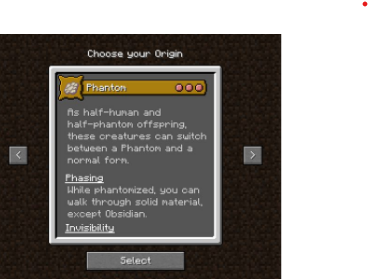
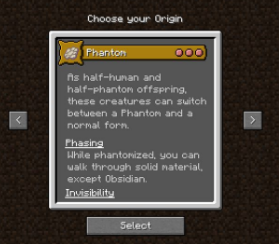
added child page, and changed background design

diff --git a/Fantasy_Web/portfolio.html b/Fantasy_Web/portfolio.html
@@ -4,22 +4,24 @@
     <meta charset="UTF-8">
     <meta http-equiv="X-UA-Compatible" content="IE=edge">
     <meta name="viewport" content="width=device-width, initial-scale=1.0">
+    <link type="text/css" rel="stylesheet" href="styles/style.css">
     <title>My Portfolio</title>
 </head>
 <body>
 
     <header>
-        <nav>
-            <img src="./assets/server-icon.png" id="nav-logo" alt="Fantasy web logo">
-
-            <a href="index.html"> Home </a>
-            <a href="portfolio.html"> Portfolio </a>
-            <a href="https://github.com/Thrasherop"> Github </a>
+        <nav class="header">
+            <img src="./assets/server-iconv3.png" id="nav-logo" alt="Fantasy web logo">
+            
+            <br>
+            <a href="index.html" class="nav-link"> Home </a>
+            <a href="downloads.html" class="nav-link"> Downloads </a>
+            <a href="https://github.com/Thrasherop" class="nav-link"> Github </a>
         </nav>
     </header>
 
     <main>
-        <section id="welcome-section">
+        <section id="welcome-section" class="text-bubble">
             <h1 id="portfolio-welcome-title"> Welcome! </h1>
             <p id="portfolio-welcome-text"> 
                 Thanks for visiting my portfolio! This is where I have chosen
@@ -32,34 +34,35 @@
             </p>
         </section>
 
-        <section id="portfolio-section">
+        <section class="portfolio-section">
 
             <article class="portfolio-item" id="PeaPass-article">
-                <a href="https://github.com/Thrasherop/PeaPass">
-                    <img class="portfolio-thumbnail" src="assets/PeaPass Screenshot.png">
-                    <p> 
-                        This is my fully open source password manager. Although it is far from perfect, 
-                        I am still proud of it. I had to do a lot of research on cyber security and best
-                        practices. Ultimately I ended up with a Python script that uses Argon2-id as well 
-                        as PBKDF2 to keep passwords confidential!
-                        <br>
-                        Repo: Github.com/Thrasherop/PeaPass <br>
-                        Language: Python3<br>
-                        Specific skills: Python3, Cybersecurity
-                    </p>
+                <a href="https://github.com/Thrasherop/PeaPass" class="portfolio-link">
+                        <img class="portfolio-thumbnail" src="assets/PeaPass Screenshot.png">
+                        <p class="portfolio-description"> 
+                            This is my fully open source password manager. Although it is far from perfect, 
+                            I am still proud of it. I had to do a lot of research on cyber security and best
+                            practices. Ultimately I ended up with a Python script that uses Argon2-id as well 
+                            as PBKDF2 to keep passwords confidential!
+                            <br> <br>
+                            Repo: Github.com/Thrasherop/PeaPass <br>
+                            Language: Python3<br>
+                            Specific skills: Python3, Cybersecurity
+                        </p>
                 </a>
+                
             </article>
 
             <article class="portfolio-item" id="GPT3-article">
-                <a href="https://github.com/Thrasherop/PeaPass">
-                    <img class="portfolio-thumbnail" src="assets/Google-Home.jpg">
-                    <p> 
+                <a href="https://Github.com/Thrasherop/GPT3-Assistant" class="portfolio-link">
+                    <img class="portfolio-thumbnail" src="assets/Google-Home.png">
+                    <p class="portfolio-description"> 
                         This is a passion project of mine. I wanted to integrate OpenAI's GPT-3 with
                         my Google Home. I used ITTT as well as a locally running server in order to do
                         this. When this project is set up, I'm able to ask my Google Home philosophical
                         questions or a DJ recommendation. OpenAI is queried, and a logical and impressive
                         response is played on my Google Home. 
-                        <br>
+                        <br><br>
                         Repo: Github.com/Thrasherop/GPT3-Assistant <br>
                         Language: Python3<br>
                         Specific skills: Python3, API usage
@@ -68,15 +71,15 @@
             </article>
 
             <article class="portfolio-item" id="cpu-article">
-                <a href="https://github.com/Thrasherop/PeaPass">
+                <a href="https://github.com/Thrasherop/MicroProcessor" class="portfolio-link">
                     <img class="portfolio-thumbnail" src="assets/Microprocessor_ss.png">
-                    <p> 
+                    <p class="portfolio-description"> 
                         This is a simple 4 bit microprocessor that I designed. It is simulated
                         inside of Logisim, and features a 5 function ALU. Additionally, I built
                         a compiler script in python (available at https://github.com/Thrasherop/ATAKLOA_Compiler).
                         This compiler will take assembly and turn it into the hex that Logisim
                         loads into the ROM.
-                        <br>
+                        <br><br>
                         Repo: https://github.com/Thrasherop/MicroProcessor <br>
                         Language: Python3 (for the compiler)<br>
                         Specific skills: Computer Engineering, Python3
@@ -85,16 +88,16 @@
             </article>
 
             <article class="portfolio-item" id="powers-article">
-                <!-- <a href="https://github.com/Thrasherop/PeaPass"> -->
-                    <img class="portfolio-thumbnail" src="assets/Microprocessor_ss.png">
-                    <p> 
+                <!-- <a href="https://github.com/Thrasherop/PeaPass" class="portfolio-link"> NO LINK-->
+                    <img class="portfolio-thumbnail" src="assets/custom-plugin-thumbnail.png">
+                    <p class="portfolio-description"> 
                         This is a Minecraft plugin I built for some friends. It gives various
                         users custom powers such as teleportation. Due to this being used by
-                        tech savy end users, I've elected to keep the source code proprietary
+                        tech savy end users, I've elected to keep the source code closed-source
                         to reduce bug abuse. Nonetheless, this is one of my larger projects,
                         and one that required maintaining.
 
-                        <br>
+                        <br><br>
                         Repo: Closed Source <br>
                         Language: Java<br>
                         Specific skills: Java
@@ -103,15 +106,15 @@
             </article>
 
             <article class="portfolio-item" id="carbonoffset-article">
-                <a href="https://github.com/Thrasherop/PeaPass">
+                <a href="https://github.com/Thrasherop/Carbon-Offset-Calculator" class="portfolio-link" >
                     <img class="portfolio-thumbnail" src="assets/carbonoffset-calculator.png">
-                    <p> 
+                    <p class="portfolio-description"> 
                         I made this in an attempt to calculate how cheap it is to offset a persons
                         carbon footprint. I posted this online, and open sourced the code so that 
                         other people could calculate their own carbon footprint. I reached out to
                         the Arbor Day foundation and they helped confirm the estimations used in 
                         the simulation.
-                        <br>
+                        <br><br>
                         Repo: https://github.com/Thrasherop/Carbon-Offset-Calculator <br>
                         Language: Python3 <br>
                         Specific skills: Python3
@@ -120,15 +123,15 @@
             </article>
 
             <article class="portfolio-item" id="FreeTTS-article">
-                <a href="https://github.com/Thrasherop/freeTTS">
+                <a href="https://github.com/Thrasherop/freeTTS" class="portfolio-link">
                     <img class="portfolio-thumbnail" src="assets/freetts-thumbnail.png">
-                    <p> 
+                    <p class="portfolio-description"> 
                         This was one of my first open source projects, and I used it very frequently for over a year.
                         It allowed me to copy and paste text and have it generate speech for me. I 
                         comprehend reading much better when I listen, thus this was very helpful for me.
                         It was quick and simple to use, and that made it convenient for me to use. I open 
                         sourced it to allow other people like me to enjoy its benefits. 
-                        <br>
+                        <br><br>
                         Repo: https://github.com/Thrasherop/freeTTS <br>
                         Language: Python3 <br>
                         Specific skills: Python3
@@ -138,20 +141,21 @@
 
         </section>
 
-        <section>
+        <section class="resume-section">
 
-            <h2>Full Portfolio</h2>
-            <img src="assets/resume.jpg" alt="personal resume">
+            <h2 class="resume-header">Full Résumé</h2>
+            <img src="assets/resume.jpg" alt="personal resume" class="resume-img">
 
         </section>
     </main>
 
-    <footer>
+    <footer class="footer">
 
-        <h4> &copy; 2022 - Joshua Kopaunik </h4>
-        <h4><a href="site-plan.html">Site Plan</a></h4>
-        <h4><a href="https://github.com/Thrasherop">Github: Github.com/Thrasherop</a></h4>
-        <h4><a href="mailto: KopaunikSoftware@gmail.com"> Email: KopaunikSoftware@Gmail.com</a></h4>
+        <h4 class="footer-link"> &copy; 2022 - Joshua Kopaunik </h4>
+        <h4 ><a href="site-plan.html" class="footer-link" >Site Plan</a></h4>
+        <h4><a href="https://github.com/Thrasherop" class="footer-link">Github: Github.com/Thrasherop</a></h4>
+        <h4><a href="https://discordapp.com/users/Thrasherop#9875/" class="footer-link">Discord: Thrasherop#9875</a></h4>
+        <h4><a href="mailto: KopaunikSoftware@gmail.com" class="footer-link"> Email: KopaunikSoftware@Gmail.com</a></h4>
 
     </footer>
 

diff --git a/Fantasy_Web/downloads.html b/Fantasy_Web/downloads.html
@@ -11,7 +11,7 @@
     
     <header>
         <nav class="header">
-            <img src="./assets/server-icon.png" id="nav-logo" alt="Fantasy web logo">
+            <img src="./assets/server-iconv3.png" id="nav-logo" alt="Fantasy web logo">
             
             <br>
             <a href="index.html" class="nav-link"> Home </a>
@@ -90,6 +90,59 @@
                 <img src="./assets/amplified_thumbnail.png" class="world-thumbnail" alt="Amplified world download thumbnail">
             </div>
         </section>
+
+
+        <section id="origins-section" class="world-section">
+            <h3 class="world-title"> Origins World </h3>
+
+            <div class="world-content">
+                <img src="./assets/origins_thumbnail.png" class="world-thumbnail" alt="Dodododo season 1 thumbnail">
+
+                <div class=".world-subbest">
+                    <p class="world-description"> 
+                            This another one of our long-term SMP worlds. Unlike the OG world, however, this one
+                            had the Origins mod installed. I personally really thrived in this world, even though 
+                            I stepped away from the RP. Lots of beautiful (and ugly) builds were here, and we all 
+                            put waaay too much time into this world. If you do load this, make sure you don't load
+                            it with the vanilla jar, since doing so will wipe some mod data.
+                            <br><br>
+                            Download size: ~14Mb <br>
+                            File Name: dodododo_season_2-origins <br>
+                            Minecraft version: 1.16.x (plus Origins mod)
+
+                    </p>
+                    <button id="origins-btn" class="download-btn"> Download </button>
+                </div>
+
+            </div>
+
+        </section>
+
+        <section id="disastersmp-section" class="world-section">
+            <h3 class="world-title"> DisasterSMP Season 1 </h3>
+
+            <div class="world-content">
+
+            <div class="world-subbest">
+
+                <p class="world-description">
+                    This was the world with the most RP. We had a limited amount of time on the server before
+                    an unknown disaster would destroy everything. There was a world border, as well as custom 
+                    powers. This world file is from before the disaster happened, since the disaster destroyed 
+                    everything. 
+                    <br><br>
+                    Download size: ~72Mb <br>
+                    File name: DisasterSMP <br>
+                    Minecraft version: 1.17.x
+                </p>
+
+                <button id="disastersmp-btn" class="download-btn"> Download </button>
+
+            </div>
+                <img src="./assets/amplified_thumbnail.png" class="world-thumbnail" alt="Amplified world download thumbnail">
+            </div>
+        </section>
+
     </main>
 
     <footer class="footer">

diff --git a/Fantasy_Web/styles/style.css b/Fantasy_Web/styles/style.css
@@ -25,8 +25,13 @@
 }
 
 body {
-    background-color: var(--primary-color);
+    /* background-color: var(--primary-color); */
+    background-image: url("/Fantasy_Web/assets/cloudy-backgroundv6.png");
+    background-size: cover;
     margin: 0px;
+    background-repeat: no-repeat;
+    background-attachment: fixed;
+    
 }
 
 
@@ -60,10 +65,12 @@ body {
     display: grid;
     grid-template-columns: 1fr 2.9fr repeat(3, 1fr);
     justify-content: space-around;
+    background-color: var(--secondary-color);
+    
 }
 
 .nav-link{
-    color: var(--accent1-color);
+    color: var(--primary-color);
     text-decoration: none;
     text-align: center;
     width: 55%;
@@ -148,6 +155,7 @@ body {
     text-align: center;
     font-family: Mansalva;
     color: var(--accent1-color);
+    /* background-color: var(--secondary-color); */
 }
 
 #home-body{
@@ -235,7 +243,78 @@ body {
 }
 
 
+/*
 
+    PORTFOLIO PAGE THINGS
+
+*/
+
+.portfolio-section {
+    display: flex;
+    flex-wrap: wrap;
+    flex-direction: row;
+    align-items: center;
+    justify-content: center;
+    margin: 0 auto;
+    width: 80%;
+}
+
+ .portfolio-item {
+    width: 50%;
+    
+   
+}
+
+.portfolio-link {
+    text-decoration: none;
+    margin: 0 auto;
+    display: inline;
+    color: inherit;
+}
+
+.portfolio-thumbnail {
+    width: 25%;
+    height: 50%;
+    margin: 0 auto;
+    display: block;
+    border: 5px solid var(--secondary-color);
+    border-radius: 15px;
+}
+
+.portfolio-description{
+    font-family: var(--paragraph-font);
+    text-align: left;
+    text-decoration: none;
+    background-color: var(--secondary-color);
+    border-radius: 10px;
+    width: 75%;
+    padding: 10px;
+    margin: 0 auto;
+    margin-top: 10px;
+    margin-bottom: 10px;
+    display: block;
+}
+
+
+.resume-section {
+    align-items: center;
+    justify-content: center;
+    margin: 0 auto;
+    width: 80%;
+}
+
+.resume-header {
+    font-size: 3em;
+    font-family: var(--paragraph-font);
+    color: var(--accent1-color);
+    text-align: center;
+    margin-top: 10px;
+}
+
+.resume-img {
+    display: block;
+    margin: 0 auto;
+}
 
 
 /* 
